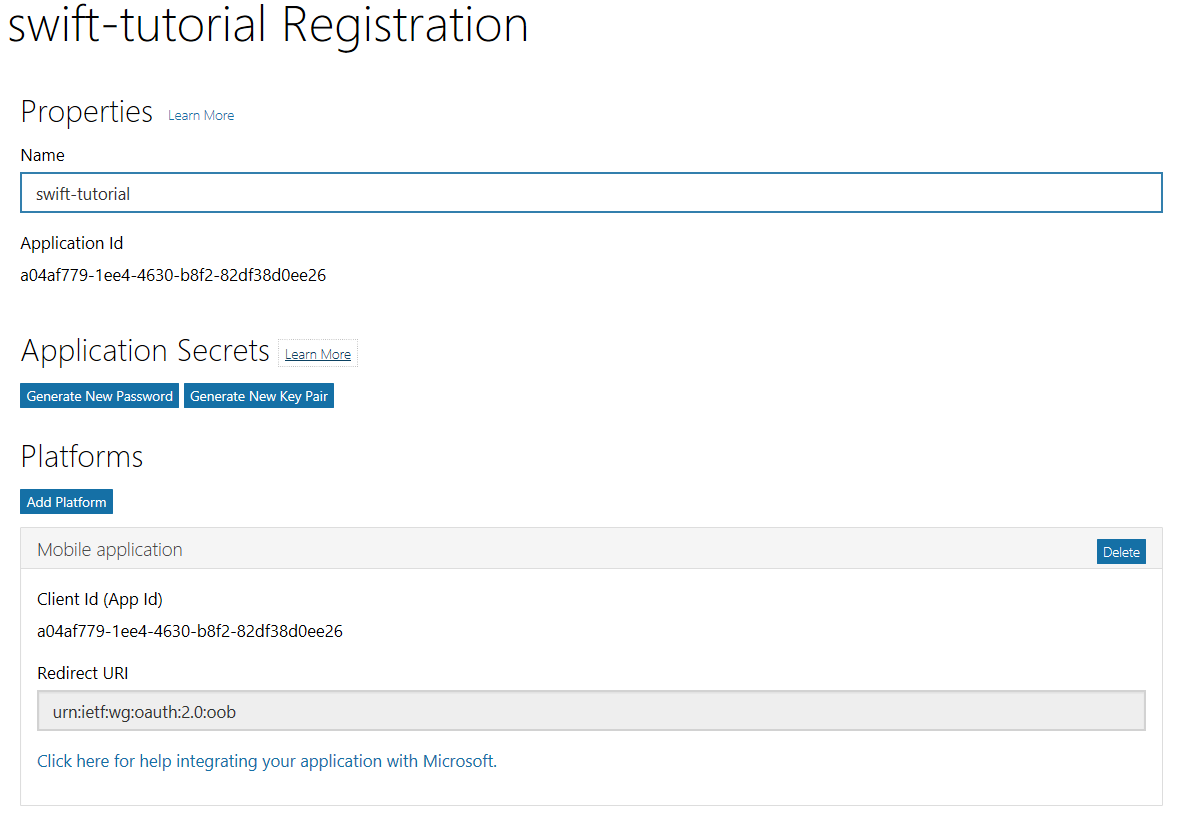
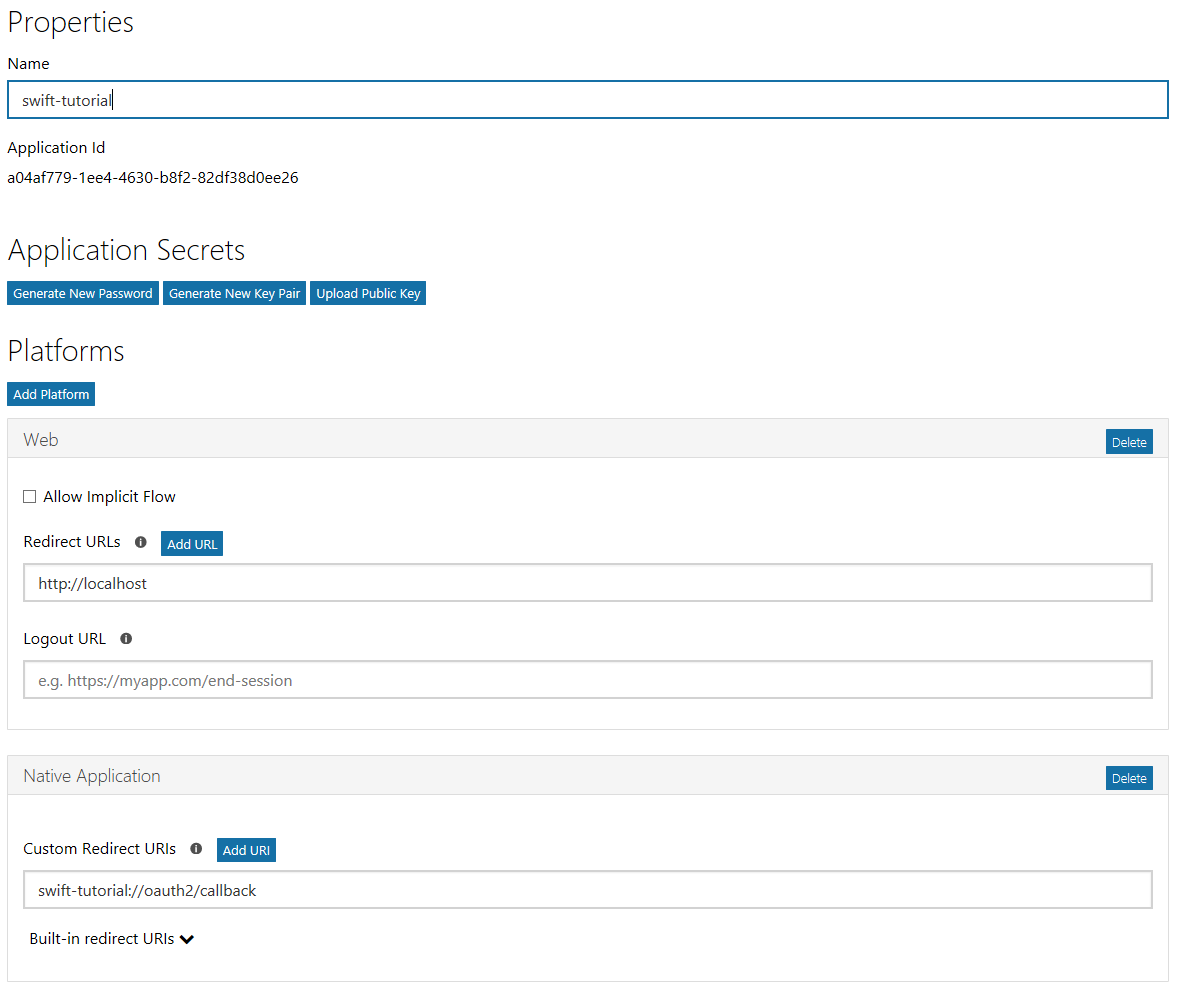
Updated iOS tutorial
Running the tutorial on iOS 11 caused a crash in the p2.oAuth module. Made changes to avoid the crash.

diff --git a/docs/rest/ios-tutorial.md b/docs/rest/ios-tutorial.md
@@ -132,8 +132,9 @@ At this point the app should build and run. Tapping the **Log in** button should
 Head over to the [Application Registration Portal](https://apps.dev.microsoft.com/) to quickly get an application ID. 
 
 1. Using the **Sign in** link, sign in with either your Microsoft account (Outlook.com), or your work or school account (Office 365).
-1. Click the **Add an app** button. Enter `swift-tutorial` for the name and click **Create application**. 
-1. Locate the **Platforms** section, and click **Add Platform**. Choose **Mobile**.
+1. Click the **Add an app** button. Enter `swift-tutorial` for the name and click **Create**. 
+1. Locate the **Platforms** section, and click **Add Platform**. Choose **Native application**.
+1. Replace the value for **Custom Redirect URIs** with `swift-tutorial://oauth2/callback`.
 1. Click **Save** to complete the registration. Copy the **Application Id** and save it. We'll need it soon.
 
 Here's what the details of your app registration should look like when you are done.
@@ -161,21 +162,20 @@ class OutlookService {
         "authorize_uri": "https://login.microsoftonline.com/common/oauth2/v2.0/authorize",
         "token_uri": "https://login.microsoftonline.com/common/oauth2/v2.0/token",
         "scope": "openid profile offline_access User.Read Mail.Read",
-        "redirect_uris": ["urn:ietf:wg:oauth:2.0:oob"],
+        "redirect_uris": ["swift-tutorial://oauth2/callback"],
         "verbose": true,
         ] as OAuth2JSON
-    
+
     private static var sharedService: OutlookService = {
         let service = OutlookService()
         return service
     }()
-    
+
     private let oauth2: OAuth2CodeGrant
-    
+
     private init() {
         oauth2 = OAuth2CodeGrant(settings: OutlookService.oauth2Settings)
         oauth2.authConfig.authorizeEmbedded = true
-        oauth2.authConfig.ui.useSafariView = false
     }
     
     class func shared() -> OutlookService {
@@ -187,7 +187,11 @@ class OutlookService {
             return oauth2.hasUnexpiredAccessToken() || oauth2.refreshToken != nil
         }
     }
-    
+
+    func handleOAuthCallback(url: URL) -> Void {
+        oauth2.handleRedirectURL(url)
+    }
+
     func login(from: AnyObject, callback: @escaping (String? ) -> Void) -> Void {
         oauth2.authorizeEmbedded(from: from) {
             result, error in
@@ -202,7 +206,7 @@ class OutlookService {
             }
         }
     }
-    
+
     func logout() -> Void {
         oauth2.forgetTokens()
     }
@@ -210,6 +214,40 @@ class OutlookService {
 ```
 	
 Replace the value of `clientId` with the application ID you generated in the Application Registration Portal.
+
+Open **AppDelegate.swift** and add a new function to the `AppDelegate` class. This function will handle activation of the app when it is activated by the custom redirect URI during sign in.
+
+#### `application` function in `AppDelegate.swift`
+
+```Swift
+func application(_ app: UIApplication, open url: URL, sourceApplication: String?, annotation: Any) -> Bool {
+    if url.scheme == "swift-tutorial" {
+        let service = OutlookService.shared()
+        service.handleOAuthCallback(url: url)
+        return true
+    }
+    else {
+        return false
+    }
+}
+```
+
+Now we need to register the custom URI scheme `swift-tutorial` so that our app will be invoked.
+
+1. Control-click the **Info.plist** file and choose **Open As**, then **Source Code**.
+1. Go to the end of the file, and add the following code just after the last `</array>` line in the file:
+
+    ```xml
+    <key>CFBundleURLTypes</key>
+    <array>
+        <dict>
+            <key>CFBundleURLSchemes</key>
+            <array>
+                <string>swift-tutorial</string>
+            </array>
+        </dict>
+    </array>
+    ```
 
 Switch back to **MailViewController.swift**. Add a member to the `MailViewController` class to hold the shared instance of the `OutlookService` class.
 
